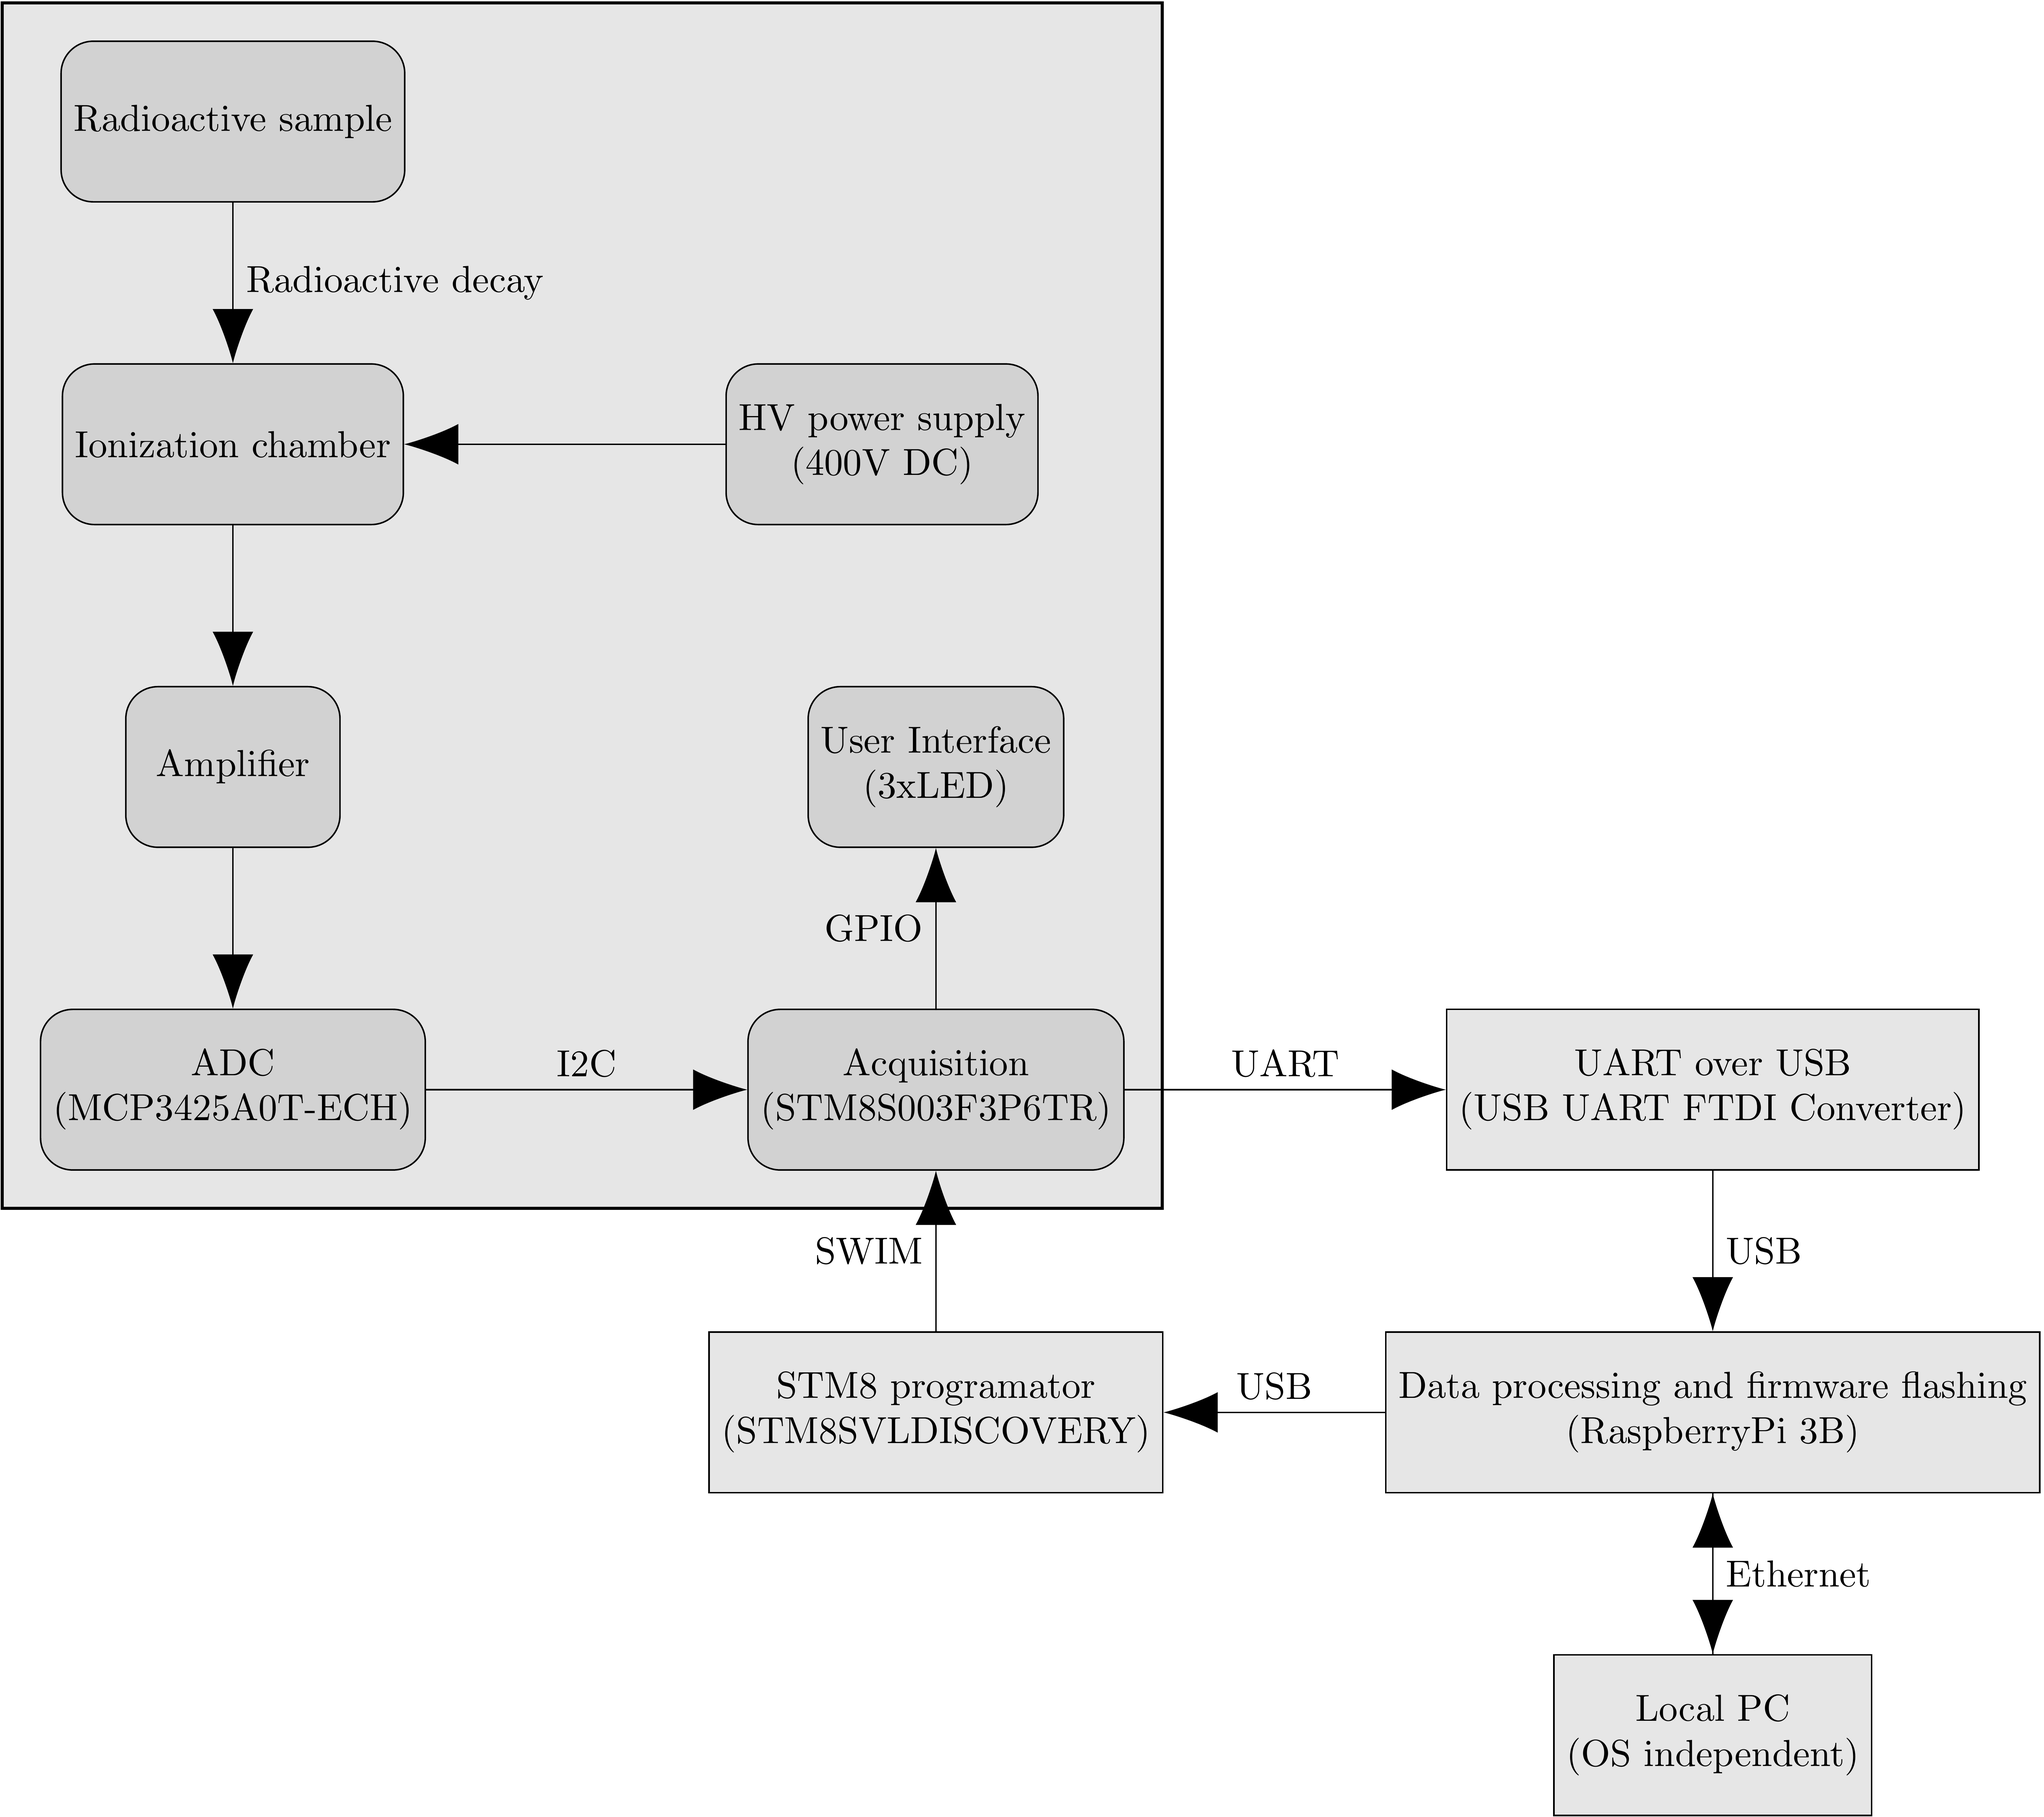
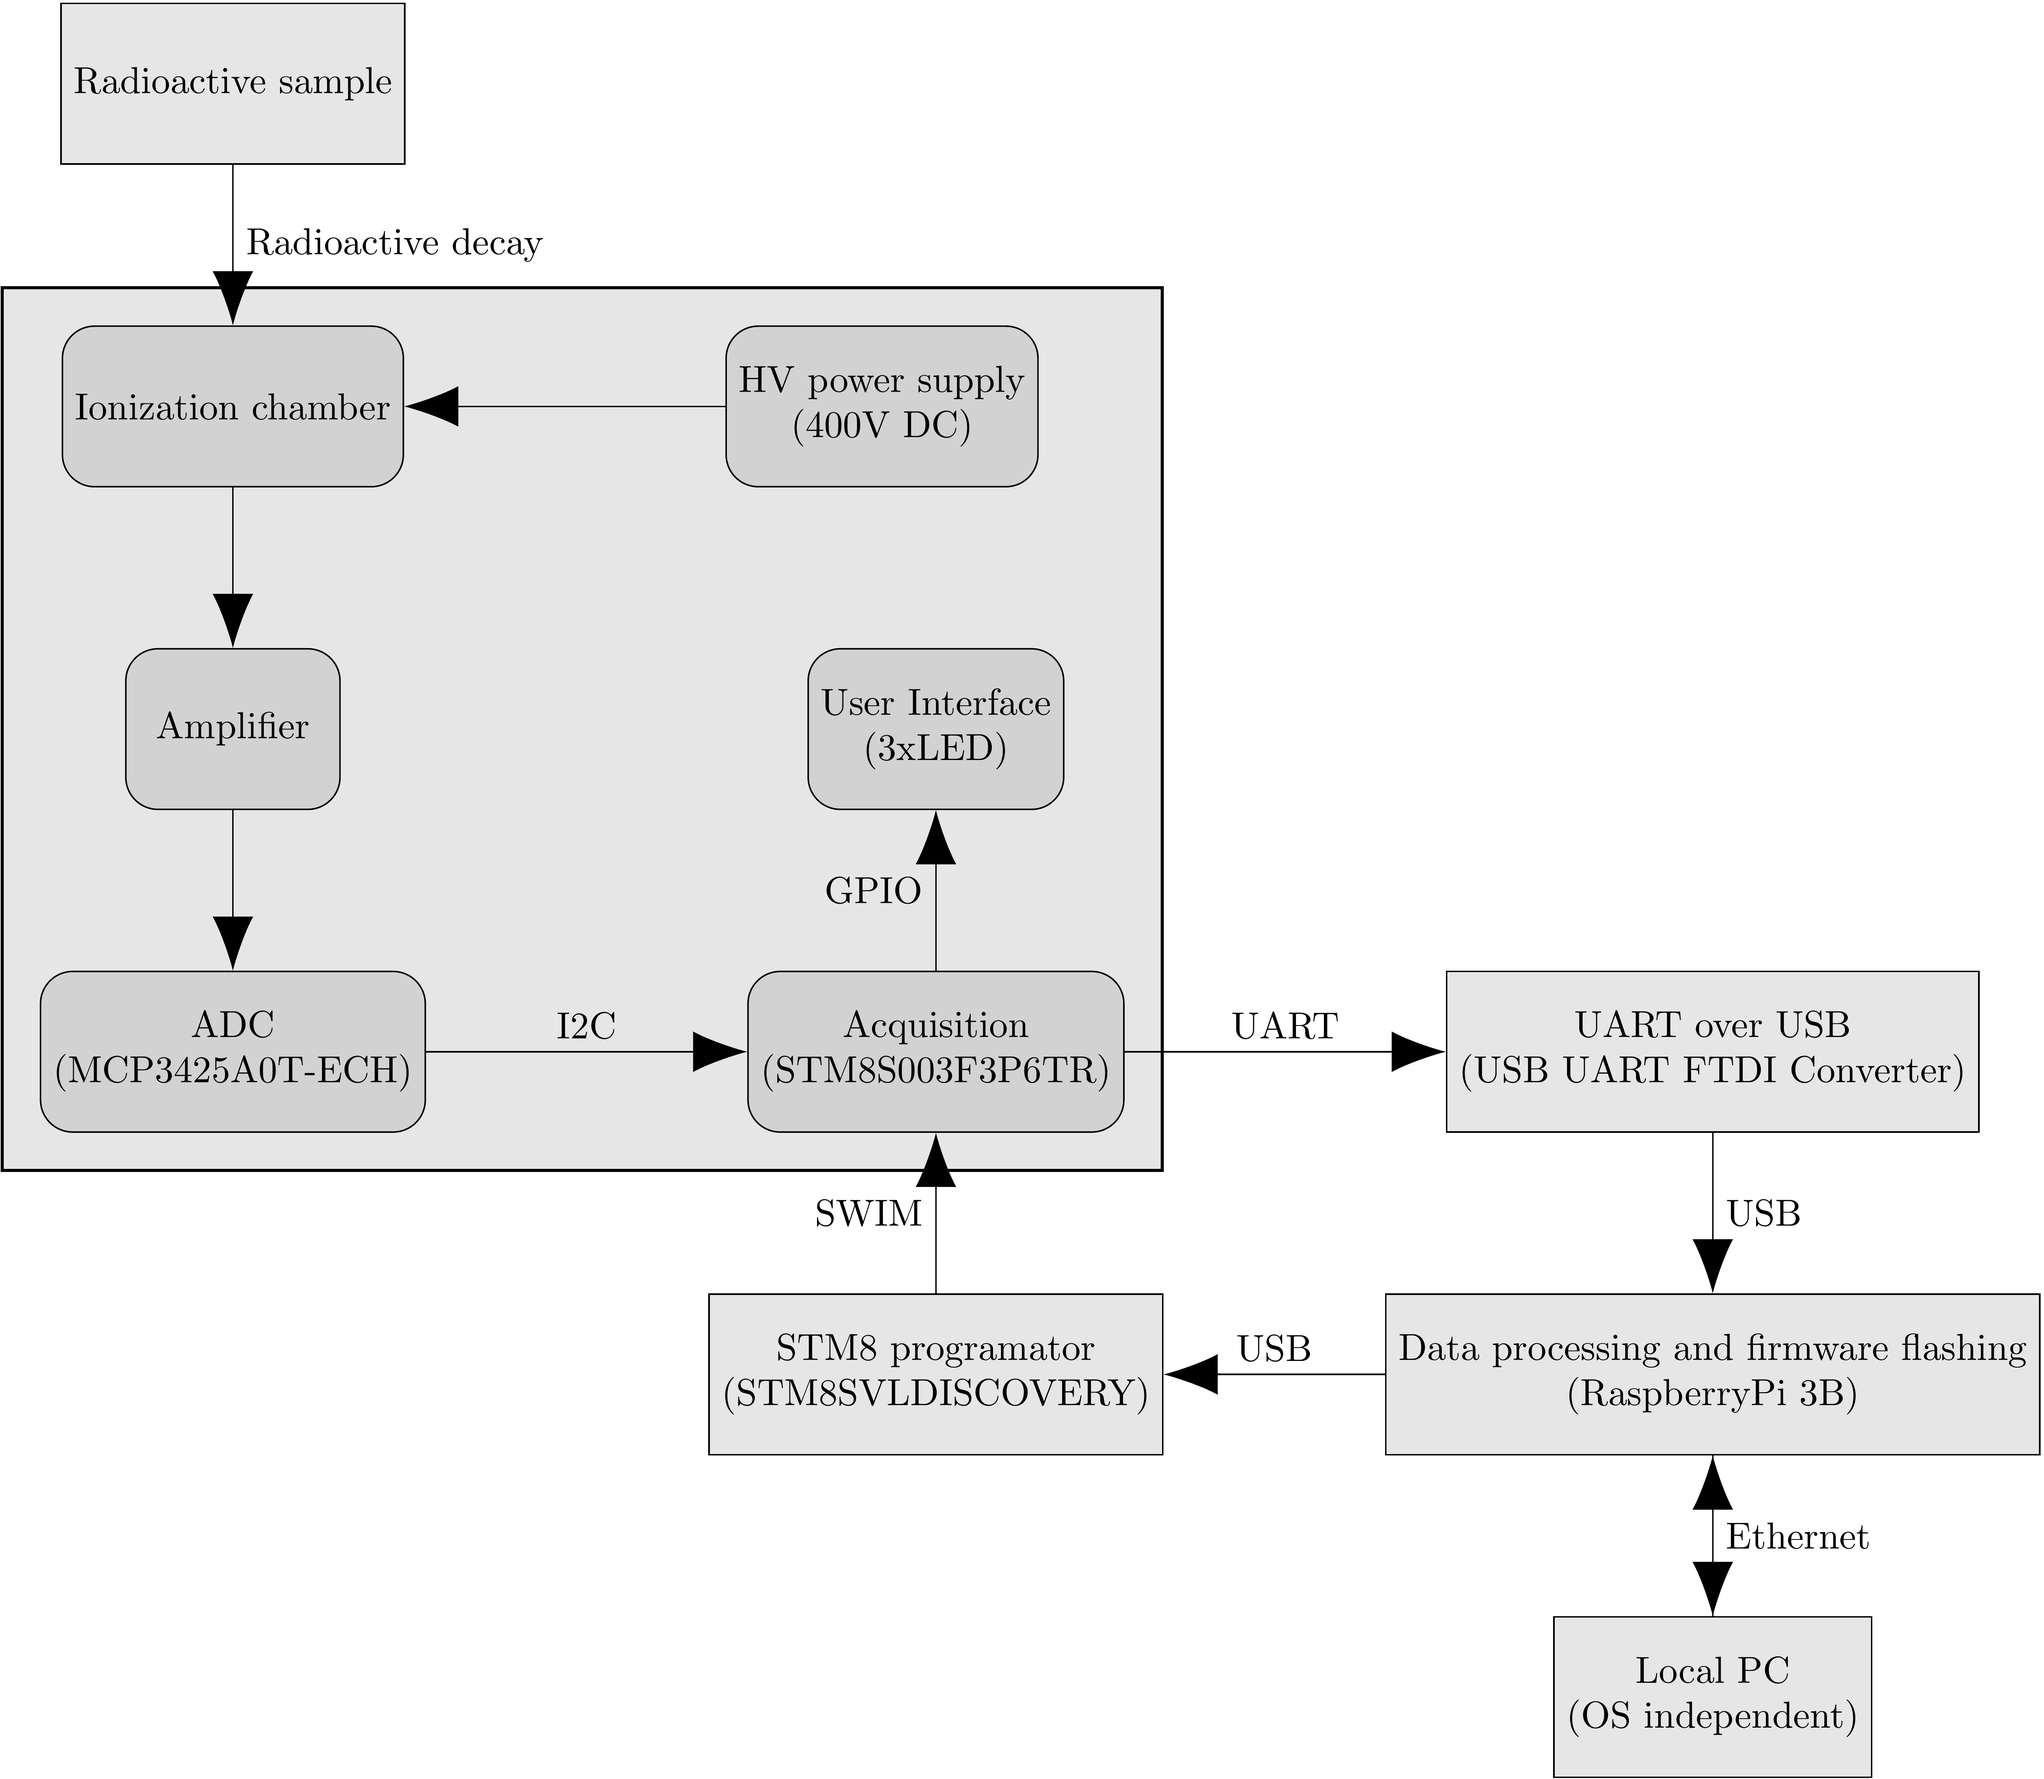
fix #181

diff --git a/documentation/diagrams/ArchitectureOverview.tex b/documentation/diagrams/ArchitectureOverview.tex
@@ -6,7 +6,7 @@
 \definecolor{systemColor}{RGB}{230,230,230}
 
 \tikzset{component/.append style={fill=componentColor, align=center, draw, minimum width=2cm, minimum height=1.5cm, rounded corners=.3cm}}
-\tikzset{system/.style={ component, fill=systemColor, rounded corners=0cm}}
+\tikzset{system/.style={component, fill=systemColor, rounded corners=0cm}}
 
 
 \begin{document}
@@ -17,7 +17,7 @@
 \pgfsetlayers{background,main}
 
 \node (chamber) [component] {Ionization chamber};
-\node (sample) [component, above=of chamber] {Radioactive sample};
+\node (sample) [system, above=of chamber] {Radioactive sample};
 
 \node (hwpower) [component, right=of chamber] {HV power supply\\ (400V DC)};
 \node (amplifier) [component, below=of chamber] {Amplifier};
@@ -34,7 +34,7 @@
 \node (pc) [system, below=of pi] {Local PC\\ (OS independent)};
 
 \begin{pgfonlayer}{background}
-\node[system ,  draw, thick,  inner xsep=1em, inner ysep=1em, fit=(sample) (chamber) (hwpower) (amplifier) (adc) (cpu) ] {};
+\node[system, draw, thick, inner xsep=1em, inner ysep=1em, fit= (chamber) (hwpower) (amplifier) (adc) (cpu)] {};
 \end{pgfonlayer}
 
 % Connectors
@@ -52,9 +52,6 @@
 \draw [-{Latex[scale=3.0]}] (uartconverter) -- node[anchor=west, minimum height=.25cm, draw=none] {USB} (pi);
 \draw [-{Latex[scale=3.0]}] (pi) -- node[anchor=west, minimum height=.25cm, draw=none] {Ethernet} (pc);
 \draw [-{Latex[scale=3.0]}] (pc) -- node[anchor=west, minimum height=.25cm, draw=none] {} (pi);
-
-
-
 
 \end{scope}
 
